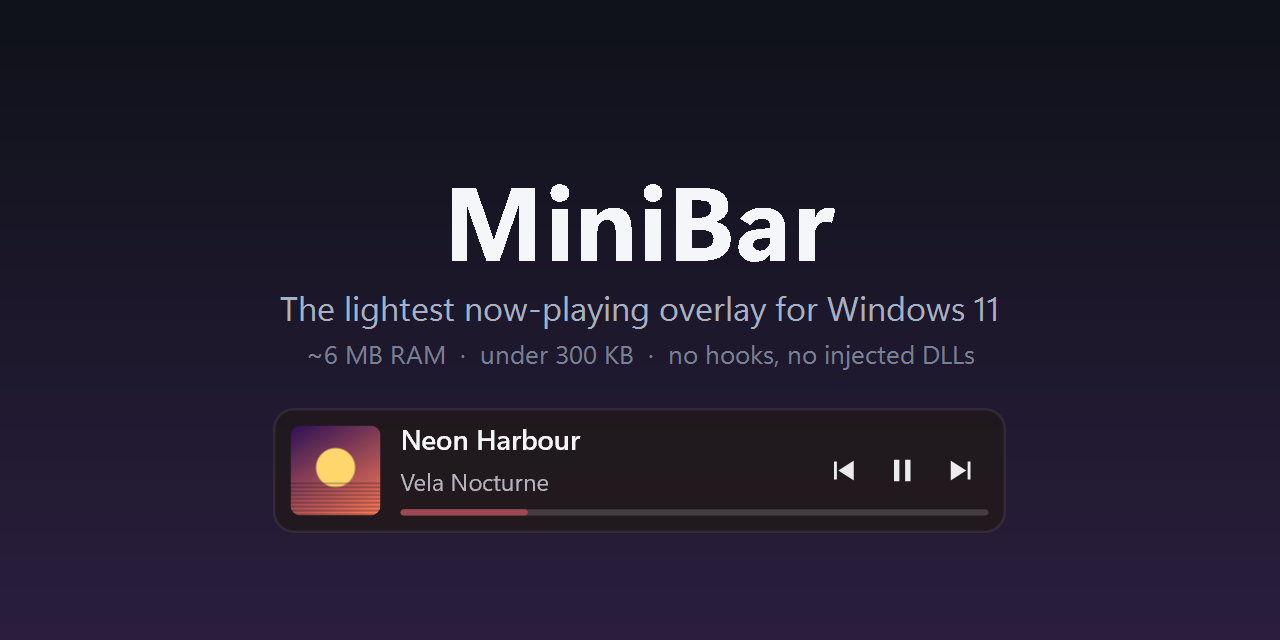
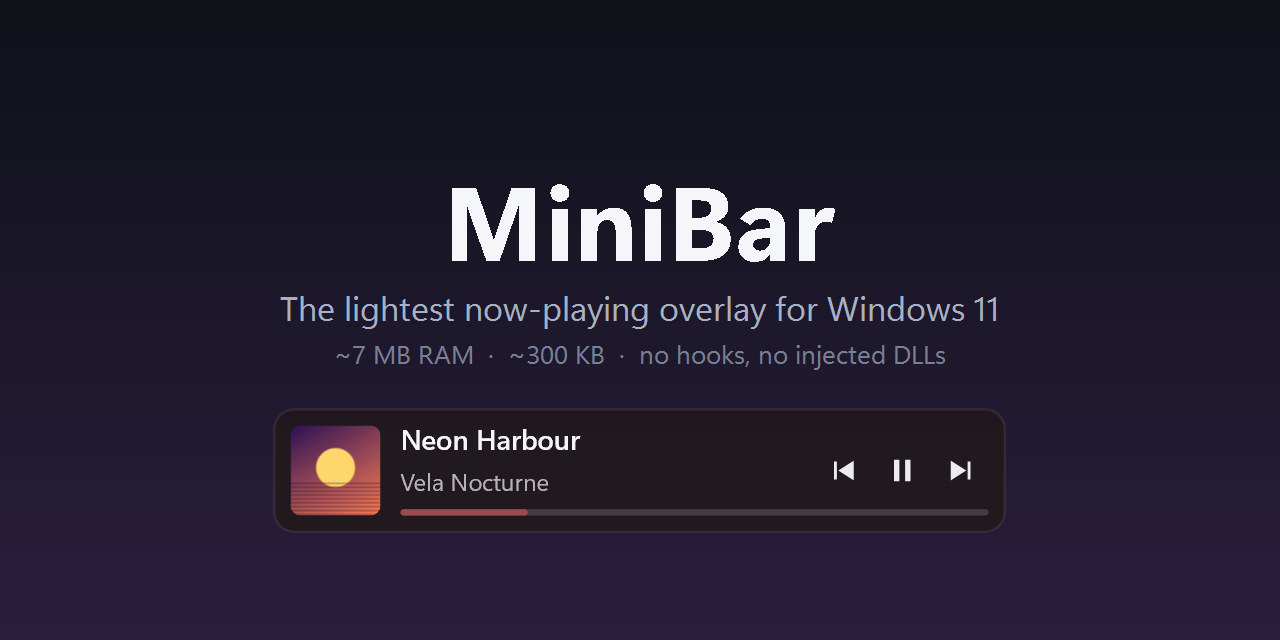
Versione 1.1.0: numeri rimisurati sul binario finale, packaging README con il bucket Scoop
CMake e VERSIONINFO a 1.1.0. Misure sul binario finale: ~7 MB in
aspetto barretta (cresciuta del 10%), ~5,5 nel riquadro, 0,03% di un
core fra un evento e l'altro, avvio ~57 ms (mediana a caldo); il primo
avvio di un exe appena scaricato e' piu' lento e imprevedibile
(110-580 ms misurati), quindi non si pubblica piu' una cifra. Exe 300 KB:
"~300 KB" nell'hero, nella card e nella social preview rigenerata.
packaging/README.md: bucket Scoop e avvertenza di prendere l'hash
dall'asset caricato dalla CI, non dalla build locale.

Changed region(s): [[0.25, 0.5312, 0.75, 0.5938]]

diff --git a/packaging/README.md b/packaging/README.md
@@ -38,8 +38,20 @@ the automated validation in winget-pkgs cannot download the installer.
 
 ## Scoop — `scoop/minibar.json`
 
-Ready for a personal bucket, or for a pull request to
-[ScoopInstaller/Extras](https://github.com/ScoopInstaller/Extras).
+This file is the source of truth; the copy people actually install from lives in the bucket
+at [AceisX/scoop-bucket](https://github.com/AceisX/scoop-bucket), which is what these
+instructions in the README point at:
+
+```powershell
+scoop bucket add aceisx https://github.com/AceisX/scoop-bucket
+scoop install minibar
+```
+
+Publishing a new version means copying this file into that repository — the bucket expects
+the manifest at its root, named `minibar.json` — and pushing. A pull request to
+[ScoopInstaller/Extras](https://github.com/ScoopInstaller/Extras) is the other option, and
+would drop the `scoop bucket add` step for users, but then the manifest lives on somebody
+else's release schedule.
 
 `checkver` and `autoupdate` are wired to the GitHub releases, so `scoop update` and the
 bucket's own automation pick up a new version by themselves — as long as the asset keeps
@@ -51,9 +63,13 @@ update.
 
 ## When a new version goes out
 
-1. Publish the release with `minibar.exe` attached (the CI does this on a `v*` tag).
+1. Tag `v<version>` and let the release go out. **Wait for the CI to finish**: the workflow
+   runs `gh release upload --clobber` on a tag, so the executable that ends up attached to
+   the release is the one the CI built, overwriting anything uploaded by hand. Hashing
+   before that finishes gives you the hash of a file that is about to be replaced.
 2. Hash the released asset, as above.
 3. In `winget/`, bump `PackageVersion` in all three files, and update `InstallerUrl`,
    `InstallerSha256`, `ReleaseDate` and `ReleaseNotesUrl` in the installer and locale
    manifests. Re-run `winget validate`.
-4. In `scoop/minibar.json`, bump `version`, `url` and `hash`.
+4. In `scoop/minibar.json`, bump `version`, `url` and `hash`, then copy it into the bucket
+   repository and push.

diff --git a/docs/design.md b/docs/design.md
@@ -1,8 +1,8 @@
 # MiniBar — Design
 
 > L'idea, i vincoli e le scelte di progetto dietro MiniBar: una barretta musicale nativa
-> per Windows 11 che legge le API media di sistema, controlla la riproduzione e alleggerisce
-> il player. Questo documento spiega **perché** le cose sono fatte così; il
+> per Windows 11 che legge le API media di sistema, controlla la riproduzione e toglie di
+> mezzo la finestra del player. Questo documento spiega **perché** le cose sono fatte così; il
 > [README](../README.it.md) spiega come si compila e si usa.
 
 | | |
@@ -73,13 +73,13 @@ il risparmio altrui.
 Questi numeri sono **requisiti, non speranze**: ogni modifica si accetta solo se li
 rispetta, e la CI fallisce se l'eseguibile sfora.
 
-| Metrica | Target | Misurato (1.0) | Come si misura |
+| Metrica | Target | Misurato (1.1) | Come si misura |
 |---|---|---|---|
-| RAM (private working set a regime) | < 15 MB | ~6 MB | Task Manager, "Working set (privato)", dopo minuti di riproduzione |
+| RAM (private working set a regime) | < 15 MB | ~7 MB (barretta), ~5,5 (riquadro) | Task Manager, "Working set (privato)", dopo minuti di riproduzione |
 | CPU a riposo | ≈ 0,0 % | 0,0 % (centesimi di core) | Task Manager, media su 60 s senza hover |
 | GPU fra un ridisegno e l'altro | 0 % | 0 % — non esiste un device GPU | Task Manager scheda GPU / PresentMon |
-| Dimensione eseguibile | ≤ 2 MB | 260 KB | build Release, controllato dalla CI |
-| Avvio (processo → barretta visibile) | < 200 ms | ~50 ms (~110 a freddo) | timestamp |
+| Dimensione eseguibile | ≤ 2 MB | 300 KB | build Release, controllato dalla CI |
+| Avvio (processo → barretta visibile) | < 200 ms | ~57 ms (mediana di 5 a caldo) | timestamp |
 | Impatto sul frametime di un gioco | non misurabile | — | PresentMon con e senza overlay |
 
 Il principio che li rende raggiungibili: **zero lavoro se non cambia niente**. Non c'è un

diff --git a/README.md b/README.md
@@ -4,7 +4,7 @@
 
 *[Leggi in italiano](README.it.md)*
 
-**The lightest music overlay for Windows 11.** ~6 MB of RAM, a sub-300 KB executable, no GPU
+**The lightest music overlay for Windows 11.** ~7 MB of RAM, a ~300 KB executable, no GPU
 work between redraws, and not a single hook or injected DLL — so it is safe to run next to
 an anti-cheat.
 
@@ -23,11 +23,17 @@ changes and sleeps in the message loop the rest of the time.
 
 | | Measured |
 |---|---|
-| RAM (private working set) | **~6 MB** |
-| Executable | **295 KB**, no runtime to install |
-| CPU at rest | **0.0 %** in Task Manager (hundredths of a core) |
+| RAM (private working set) | **~7 MB** in the bar look, ~5.5 MB in the tile |
+| Executable | **300 KB**, no runtime to install |
+| CPU at rest | **0.03 %** of one core between events — **0.0 %** in Task Manager |
 | GPU between redraws | **0 %** — there is no GPU device at all |
-| Cold start to visible bar | **~50 ms** (~110 ms the very first run, before the file cache is warm) |
+| Start to visible bar | **~57 ms** |
+
+A track change costs more than nothing — decoding the cover, picking its color, fading it
+in — so a minute that contains one measures a few tenths of a percent instead of a few
+hundredths. Between events the process does nothing at all. The first run of a freshly
+downloaded executable is also slower than 57 ms, by a lot and unpredictably: Windows scans a
+new file before letting it run.
 
 It also never touches another process. No DLL injection, no DirectX or Vulkan hooks, no
 global `SetWindowsHookEx`. Everything it knows about other applications it learns through

diff --git a/README.it.md b/README.it.md
@@ -320,15 +320,22 @@ centrata può finirci sopra: in quel caso si usa `anchor=right` nell'INI.
 
 | Metrica | Target §3 | Misurato |
 |---|---|---|
-| Private working set | < 15 MB | ~6 MB (5,5–6,5 secondo il layout) |
-| CPU a riposo | ≈ 0,0 % | centesimi di core: 0,0 % nel Task Manager |
-| Dimensione eseguibile | ≤ 2 MB | 295 KB |
-| Avvio → barretta visibile | < 200 ms | ~50 ms (~110 ms al primo avvio a freddo) |
+| Private working set | < 15 MB | ~7 MB in aspetto barretta, ~5,5 nel riquadro |
+| CPU a riposo | ≈ 0,0 % | 0,03 % di un core fra un evento e l'altro: 0,0 % nel Task Manager |
+| Dimensione eseguibile | ≤ 2 MB | 300 KB |
+| Avvio → barretta visibile | < 200 ms | ~57 ms |
 | GPU fra i ridisegni | 0 % | 0 % (nessun device GPU) |
 
 I numeri di CPU dipendono da quanti cambi traccia cadono nella finestra di misura: un
 cambio costa il decode della copertina, il calcolo della tinta e 220 ms di dissolvenza.
-Fra un evento e l'altro il processo consuma zero.
+Misurato su tre finestre da 60 s di seguito: 0,025 % in quella senza cambi traccia, 0,077 %
+e 0,332 % nelle due che ne contenevano uno. Fra un evento e l'altro il processo consuma
+zero.
+
+Anche l'avvio ha una nota: i 57 ms sono la mediana di cinque avvii a caldo. La primissima
+esecuzione di un eseguibile appena scritto o appena scaricato è molto più lenta e molto
+variabile — misurata fra 110 e 580 ms sulla stessa macchina — perché Windows lo analizza
+prima di lasciarlo partire.
 
 ### Stato delle verifiche
 
